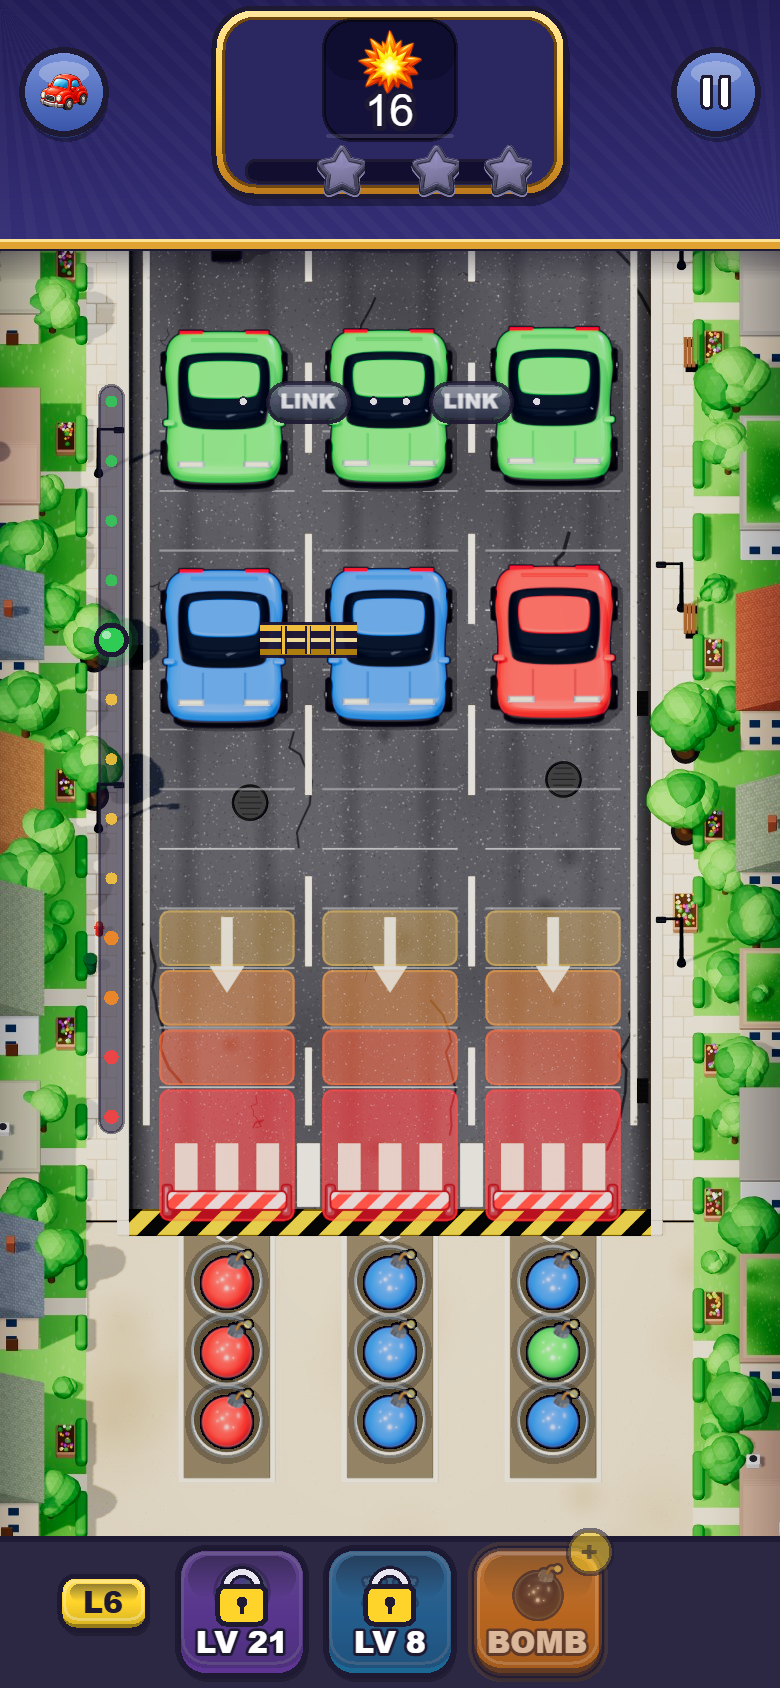
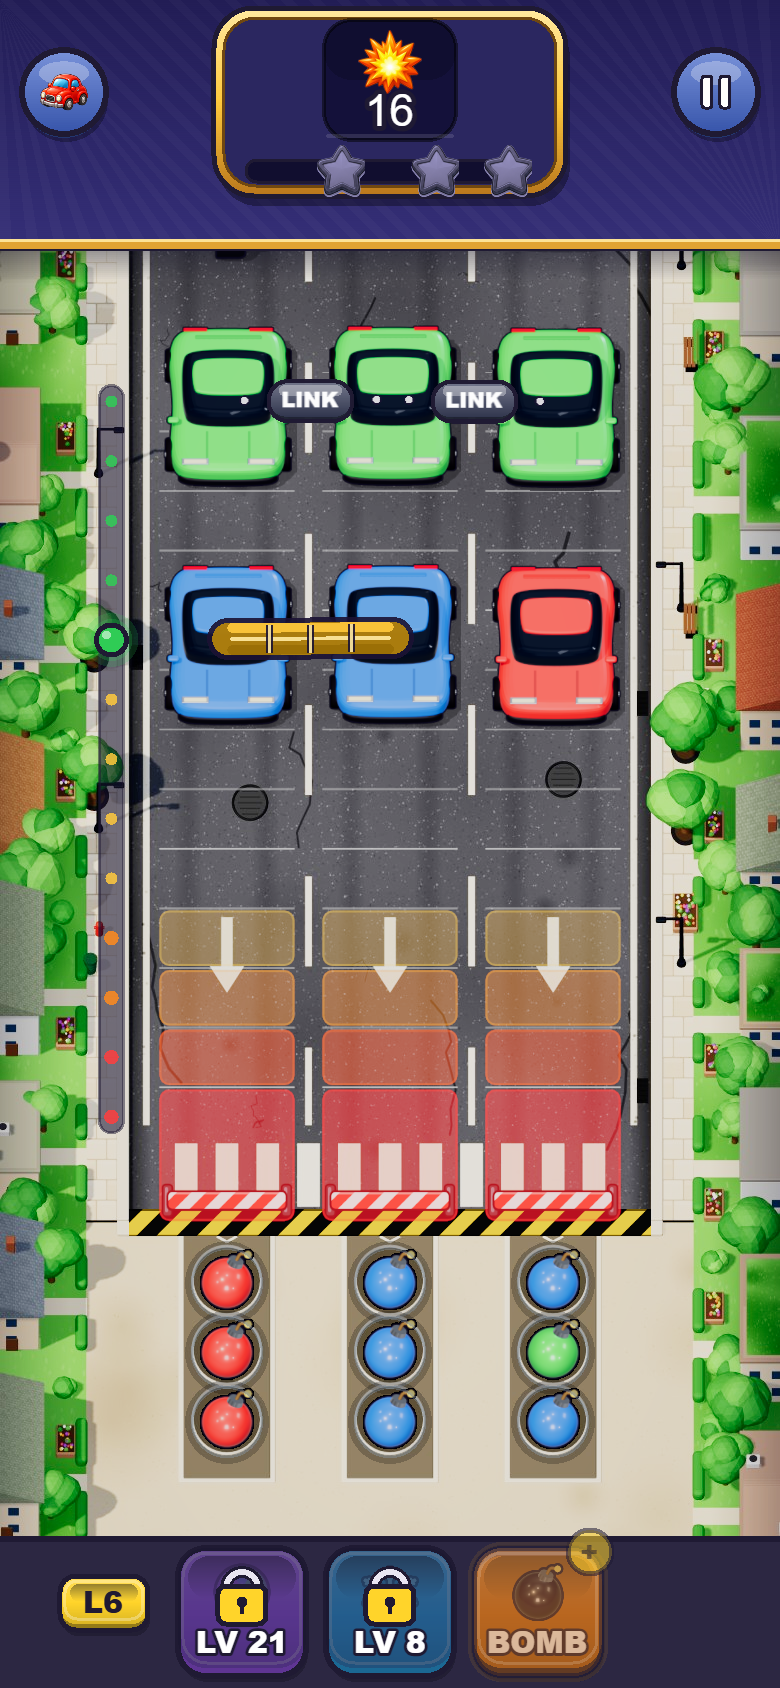
Bridge is one plank laid roof to roof, drawn from where the 3D cars are rendered each frame; the snap hinges each half on its own car

Changed region(s): [[0.1846, 0.1848, 0.8, 0.4313]]

diff --git a/src/renderer/BridgeLayer.js b/src/renderer/BridgeLayer.js
@@ -1,30 +1,30 @@
 // BridgeLayer — everything the player sees of BRIDGES (src/game/bridges.js), drawn on the Pixi
-// particle layer over the 3D road, repositioned every frame from the cars' positions:
-//   • LINK hint: a dotted white link with a small LINK pill between every pair that could be
-//     bridged right now (the board explaining itself; always on, not only the first times).
-//   • The bridge: a gold beam (two rails, rungs) between the two cars, softly pulsing.
+// particle layer over the 3D road and re-laid EVERY FRAME from where the cars are actually drawn
+// (`posOf(lane, car)` reads the 3D group's glide position; see GameRenderer3D.carScreenPos), so a
+// bridge is one plank lying across the two roofs that moves with them (owner, 2026-10-31: "a
+// single bridge that connects the two cars and moves with them").
+//   • LINK hint: a dotted link with a small LINK pill between every pair that could be bridged
+//     right now (the board explaining itself; always on, not only the first times).
+//   • The bridge: one gold plank from roof to roof with rungs, ink outline, soft pulse.
 //   • The drag: a rubber band from the held car to the finger; solid green on the partner.
-//   • Made: a ring of sparks at the middle of a new bridge.
-//   • Snap: the beam cracks and its halves fall away (a speeder moved on, a chameleon flipped).
-//   • Blast: a white flash along each bridge the hit ran through.
-// Car screen positions: lane x from PositionRegistry, y from the car's position (roadGeometry),
-// eased per car so the beam rides the 3D glide instead of jumping ahead of it.
+//   • Made: a ring of sparks at the middle of the new plank.
+//   • Snap: the plank cracks in the middle; each half stays on its own car and swings down off
+//     the roof, fading (a speeder moved on, a chameleon flipped, a car crashed).
+//   • Blast: a white flash along the plank the hit ran through.
 import { Container, Graphics } from 'pixi.js';
 import { getLaneScreenX } from './PositionRegistry.js';
 import { posToScreenY } from './roadGeometry.js';
 import { tag } from './PremiumUI.js';
 import { eligiblePairs } from '../game/bridges.js';
 
-const GOLD = 0xFFC93C, GOLD_DEEP = 0xB8860B, INK = 0x1B1333, WHITE = 0xFFFFFF, GREEN = 0x2FCC55;
-const BEAM_H = 14;
-const SNAP_T = 0.8;
-const INSET  = 0.2;   // the beam starts inside each car body (fraction of the lane gap), not at its centre
+const GOLD = 0xFFC93C, GOLD_DEEP = 0xB8860B, GOLD_LIGHT = 0xFFE9A0, INK = 0x1B1333, WHITE = 0xFFFFFF, GREEN = 0x2FCC55;
+const BEAM_H = 16;
+const SNAP_T = 0.55;
 const MADE_T = 0.45;
 const BLAST_T = 0.28;
-const GLIDE = 12;   // per-second easing toward the car's new row (Car3D glides over ~0.4 s)
 
 export class BridgeLayer {
-  constructor(layer) {
+  constructor(layer, { posOf = null } = {}) {
     this._root = new Container();
     layer.addChild(this._root);
     this._hints = new Graphics();
@@ -32,19 +32,18 @@ export class BridgeLayer {
     this._fx = new Graphics();
     this._band = new Graphics();
     this._root.addChild(this._hints, this._beams, this._fx, this._band);
-    this._pills = [];          // LINK pills in use this frame
-    this._pool = [];
-    this._yOf = new Map();     // car -> eased screen y
+    this._posOf = posOf;
+    this._pills = [];
+    this._last = new Map();    // car -> last known {x, y} (for a car that just left the board)
     this._drag = null;
-    this._snaps = [];          // { x1, y1, x2, y2, t }
+    this._snaps = [];          // { a: {lane, car}, b: {lane, car}, t }
     this._made = [];           // { x, y, t }
     this._blasts = [];         // { x1, y1, x2, y2, t }
     this._t = 0;
   }
 
   setVisible(v) { this._root.visible = v; }
-  reset() { this._yOf.clear(); this._drag = null; this._snaps.length = 0; this._made.length = 0; this._blasts.length = 0; }
-
+  reset() { this._last.clear(); this._drag = null; this._snaps.length = 0; this._made.length = 0; this._blasts.length = 0; }
   setDrag(info) { this._drag = info; }
 
   onMade(laneA, carA, laneB, carB) {
@@ -53,10 +52,7 @@ export class BridgeLayer {
   }
 
   onSnap(bridges) {
-    for (const br of bridges) {
-      const a = this._pos(br.a.lane, br.a.car), b = this._pos(br.b.lane, br.b.car);
-      this._snaps.push({ x1: a.x, y1: a.y, x2: b.x, y2: b.y, t: 0 });
-    }
+    for (const br of bridges) this._snaps.push({ a: br.a, b: br.b, t: 0 });
   }
 
   // The hit on the car at (laneIdx, srcPos) ran along the bridges to each of `hits`: flash the way.
@@ -68,13 +64,13 @@ export class BridgeLayer {
     }
   }
 
-  // Eased screen position of a car (lane x is exact; y glides toward the car's row).
-  _pos(lane, car, dt = 0) {
-    const target = posToScreenY(car.position);
-    let y = this._yOf.get(car);
-    if (y == null) y = target; else if (dt > 0) y += (target - y) * Math.min(1, dt * GLIDE); else y = target;
-    this._yOf.set(car, y);
-    return { x: getLaneScreenX(lane), y };
+  // Where the car is drawn now (3D glide included); falls back to its logical row, then to the
+  // last place it was seen (a car that just left the board, mid-snap).
+  _pos(lane, car) {
+    let p = this._posOf?.(lane, car) ?? null;
+    if (!p && car && Number.isFinite(car.position)) p = { x: getLaneScreenX(lane), y: posToScreenY(car.position) };
+    if (p) { this._last.set(car, p); return p; }
+    return this._last.get(car) ?? { x: getLaneScreenX(lane), y: posToScreenY(50) };
   }
 
   update(dt, gs) {
@@ -84,27 +80,19 @@ export class BridgeLayer {
     let pillsUsed = 0;
     if (!gs || !gs.bridgesEnabled || gs.isOver) { this._recyclePills(0); return; }
 
-    // Forget cars that left the board.
-    const live = new Set();
-    for (let l = 0; l < gs.activeLaneCount; l++) for (const c of gs.lanes[l].cars) live.add(c);
-    for (const c of this._yOf.keys()) if (!live.has(c)) this._yOf.delete(c);
-
-    // Bridges: gold beams.
-    const bridged = new Set();
+    // Bridges: one plank per bridge, roof to roof.
     for (const br of gs.bridges) {
-      const a = this._pos(br.a.lane, br.a.car, dt), b = this._pos(br.b.lane, br.b.car, dt);
-      bridged.add(br.a.car); bridged.add(br.b.car);
-      const ix = (b.x - a.x) * INSET;
-      this._beam(beams, a.x + ix, a.y, b.x - ix, b.y, 0.85 + 0.15 * Math.sin(this._t * 5));
+      const a = this._pos(br.a.lane, br.a.car), b = this._pos(br.b.lane, br.b.car);
+      drawBeam(beams, a.x, a.y, b.x, b.y, { alpha: 0.92 + 0.08 * Math.sin(this._t * 5), h: BEAM_H });
     }
 
     // Hints: dotted links with a LINK pill, for pairs not yet bridged (and not the pair in hand).
     const dragging = this._drag?.from?.car ?? null;
     for (const p of eligiblePairs(gs.lanes, gs.activeLaneCount)) {
-      if (gs.bridges.some(br => (br.a.car === p.a.car && br.b.car === p.b.car))) continue;
+      if (gs.bridges.some(br => br.a.car === p.a.car && br.b.car === p.b.car)) continue;
       if (dragging && (p.a.car === dragging || p.b.car === dragging)) continue;
-      const a = this._pos(p.a.lane, p.a.car, dt), b = this._pos(p.b.lane, p.b.car, dt);
-      this._dots(hints, a.x, a.y, b.x, b.y);
+      const a = this._pos(p.a.lane, p.a.car), b = this._pos(p.b.lane, p.b.car);
+      drawDots(hints, a.x, a.y, b.x, b.y, this._t);
       const pl = this._pill(pillsUsed++);
       pl.x = (a.x + b.x) / 2; pl.y = (a.y + b.y) / 2;
       pl.alpha = 0.75 + 0.25 * Math.sin(this._t * 4);
@@ -115,15 +103,15 @@ export class BridgeLayer {
     // Drag: the rubber band.
     if (this._drag) {
       const { from, to, pointer } = this._drag;
-      const a = this._pos(from.lane, from.car, dt);
-      const end = to ? this._pos(to.lane, to.car, dt) : pointer;
-      band.moveTo(a.x, a.y).lineTo(end.x, end.y).stroke({ color: INK, width: 8, alpha: 0.5 });
-      band.moveTo(a.x, a.y).lineTo(end.x, end.y).stroke({ color: to ? GREEN : WHITE, width: 4, alpha: to ? 1 : 0.8 });
-      band.circle(a.x, a.y, 14).stroke({ color: GOLD, width: 3 });
-      if (to) { band.circle(end.x, end.y, 16 + 2 * Math.sin(this._t * 10)).stroke({ color: GREEN, width: 4 }); }
+      const a = this._pos(from.lane, from.car);
+      const end = to ? this._pos(to.lane, to.car) : pointer;
+      band.moveTo(a.x, a.y).lineTo(end.x, end.y).stroke({ color: INK, width: 10, alpha: 0.5 });
+      band.moveTo(a.x, a.y).lineTo(end.x, end.y).stroke({ color: to ? GREEN : WHITE, width: 5, alpha: to ? 1 : 0.85 });
+      band.circle(a.x, a.y, 16).stroke({ color: GOLD, width: 3 });
+      if (to) band.circle(end.x, end.y, 18 + 2 * Math.sin(this._t * 10)).stroke({ color: GREEN, width: 4 });
     }
 
-    // Effects.
+    // Made: a ring of sparks.
     for (let i = this._made.length - 1; i >= 0; i--) {
       const m = this._made[i]; m.t += dt;
       const k = m.t / MADE_T;
@@ -134,25 +122,29 @@ export class BridgeLayer {
         fx.circle(m.x + Math.cos(ang) * (10 + 30 * k), m.y + Math.sin(ang) * (10 + 30 * k), 3 * (1 - k)).fill({ color: WHITE, alpha: 1 - k });
       }
     }
+    // Snap: the plank cracks; each half stays on its car and swings down off the roof.
     for (let i = this._snaps.length - 1; i >= 0; i--) {
       const s = this._snaps[i]; s.t += dt;
       const k = s.t / SNAP_T;
       if (k >= 1) { this._snaps.splice(i, 1); continue; }
-      const mx = (s.x1 + s.x2) / 2, my = (s.y1 + s.y2) / 2, drop = 70 * k * k, al = 1 - k * k;
-      this._beam(fx, s.x1, s.y1 + drop, mx - 6, my + drop + 8 * k, al, -0.25 * k);
-      this._beam(fx, mx + 6, my + drop + 8 * k, s.x2, s.y2 + drop, al, 0.25 * k);
-      fx.moveTo(mx - 4, my - 10).lineTo(mx + 3, my - 2).lineTo(mx - 3, my + 3).lineTo(mx + 4, my + 10).stroke({ color: WHITE, width: 2, alpha: al });
+      const a = this._pos(s.a.lane, s.a.car), b = this._pos(s.b.lane, s.b.car);
+      const mx = (a.x + b.x) / 2, my = (a.y + b.y) / 2;
+      const swing = 1.1 * k * k, al = 1 - k * k;
+      drawBeam(fx, a.x, a.y, mx, my, { alpha: al, h: BEAM_H, hinge: 'start', tilt: swing });
+      drawBeam(fx, b.x, b.y, mx, my, { alpha: al, h: BEAM_H, hinge: 'start', tilt: -swing });
+      if (k < 0.3) {
+        const c = 1 - k / 0.3;
+        fx.moveTo(mx - 5, my - 14).lineTo(mx + 4, my - 3).lineTo(mx - 4, my + 3).lineTo(mx + 5, my + 14).stroke({ color: WHITE, width: 3, alpha: c });
+      }
     }
+    // Blast: a flash along the plank.
     for (let i = this._blasts.length - 1; i >= 0; i--) {
       const b = this._blasts[i]; b.t += dt;
       const k = b.t / BLAST_T;
       if (k >= 1) { this._blasts.splice(i, 1); continue; }
-      fx.moveTo(b.x1, b.y1).lineTo(b.x2, b.y2).stroke({ color: WHITE, width: 10 * (1 - k), alpha: 0.9 * (1 - k) });
+      fx.moveTo(b.x1, b.y1).lineTo(b.x2, b.y2).stroke({ color: WHITE, width: 14 * (1 - k), alpha: 0.9 * (1 - k) });
     }
   }
-
-  _beam(g, x1, y1, x2, y2, alpha = 1, tilt = 0) { drawBeam(g, x1, y1, x2, y2, { alpha, tilt, h: BEAM_H }); }
-  _dots(g, x1, y1, x2, y2) { drawDots(g, x1, y1, x2, y2, this._t); }
 
   _pill(i) {
     let c = this._pills[i];
@@ -170,26 +162,34 @@ export class BridgeLayer {
   }
 }
 
-// ── Shared drawing (the DemoCard scenes draw the same bridge the board does) ──────────────
+// ── Shared drawing (the DemoCard scenes and the HowToPlay slide draw the same plank) ───────────
 
-/** A gold beam: ink shadow, two rails, three rungs. `tilt` (radians) for the falling halves. */
-export function drawBeam(g, x1, y1, x2, y2, { alpha = 1, tilt = 0, h: beamH = BEAM_H } = {}) {
+/**
+ * One gold plank from (x1,y1) to (x2,y2): ink outline, two rails, three rungs, rounded ends that
+ * sit on the roofs. `tilt` rotates it (radians) about its start when `hinge: 'start'`, else about
+ * its middle; `alpha` fades it.
+ */
+export function drawBeam(g, x1, y1, x2, y2, { alpha = 1, tilt = 0, h: beamH = BEAM_H, hinge = 'middle' } = {}) {
   const dx = x2 - x1, dy = y2 - y1, len = Math.hypot(dx, dy);
   if (len < 4) return;
-  const ux = dx / len, uy = dy / len;                 // along
-  const ca = Math.cos(tilt), sa = Math.sin(tilt);
-  const ax = ux * ca - uy * sa, ay = ux * sa + uy * ca;   // tilted along
-  const nx = -ay, ny = ax;                            // normal
+  const ang = Math.atan2(dy, dx) + tilt;
+  const ax = Math.cos(ang), ay = Math.sin(ang);          // along, after the tilt
+  const nx = -ay, ny = ax;                                // normal
+  // Where the plank starts after the tilt: hinged at its start, or rotated about its middle.
+  let sx = x1, sy = y1;
+  if (hinge !== 'start') { const mx = x1 + dx / 2, my = y1 + dy / 2; sx = mx - ax * len / 2; sy = my - ay * len / 2; }
   const h = beamH / 2;
-  const P = (t, n) => [x1 + ax * t + nx * n, y1 + ay * t + ny * n];
-  const rail = (n, col, w) => { const [sx, sy] = P(0, n), [ex, ey] = P(len, n); g.moveTo(sx, sy).lineTo(ex, ey).stroke({ color: col, width: w, alpha }); };
-  rail(0, INK, beamH + 4);
-  rail(-h + 1, GOLD, Math.max(2, beamH * 0.23)); rail(h - 1, GOLD_DEEP, Math.max(2, beamH * 0.23));
-  rail(0, 0xFFE9A0, Math.max(1, beamH * 0.12));
+  const P = (t, n) => [sx + ax * t + nx * n, sy + ay * t + ny * n];
+  const line = (t0, t1, n, col, w) => { const [a, b] = P(t0, n), [c, d] = P(t1, n); g.moveTo(a, b).lineTo(c, d).stroke({ color: col, width: w, alpha, cap: 'round' }); };
+  line(0, len, 0, INK, beamH + 5);                                   // outline
+  line(0, len, 0, GOLD_DEEP, beamH);                                 // body
+  line(2, len - 2, -h + 2.5, GOLD, Math.max(2.5, beamH * 0.3));      // top rail
+  line(2, len - 2, h - 2.5, 0x9A6E05, Math.max(2.5, beamH * 0.3));   // bottom rail (shade)
+  line(2, len - 2, 0, GOLD_LIGHT, Math.max(1.2, beamH * 0.12));      // highlight
   for (let i = 1; i <= 3; i++) {
     const t = (len * i) / 4;
-    const [sx, sy] = P(t, -h), [ex, ey] = P(t, h);
-    g.moveTo(sx, sy).lineTo(ex, ey).stroke({ color: INK, width: 3, alpha }).moveTo(sx, sy).lineTo(ex, ey).stroke({ color: GOLD, width: 1.5, alpha });
+    const [a, b] = P(t, -h + 1), [c, d] = P(t, h - 1);
+    g.moveTo(a, b).lineTo(c, d).stroke({ color: INK, width: 3.5, alpha }).moveTo(a, b).lineTo(c, d).stroke({ color: GOLD_LIGHT, width: 1.5, alpha });
   }
 }
 
@@ -207,5 +207,4 @@ export function drawDots(g, x1, y1, x2, y2, time = 0) {
       g.circle(x1 + dx * e, y1 + dy * e, 1.8).fill({ color: WHITE, alpha: 0.75 });
     }
   }
-
 }

diff --git a/src/renderer3d/Car3D.js b/src/renderer3d/Car3D.js
@@ -13,7 +13,7 @@
 
 import * as THREE from 'three';
 import { CELL, posToZ, laneToX } from './Scene3D.js';
-import { ROAD_Z_FAR, POS_NEAR_Z, screenYToZ } from './projection.js';
+import { ROAD_Z_FAR, POS_NEAR_Z, screenYToZ, worldXToScreenX, zToScreenY } from './projection.js';
 import { carEntryStartZ, carEntryProgress } from './carEntry.js';
 import { CAR_SPRITE_GEOMETRY } from './carSpriteGeometry.js';
 import { BOSS_SPRITE_GEOMETRY } from './bossSpriteGeometry.js';
@@ -570,6 +570,15 @@ export class Car3D {
     this._dying.length = 0;
     for (const s of this._shards ?? []) { this._scene.remove(s.mesh); s.mesh.geometry.dispose(); s.mesh.material.dispose(); }
     if (this._shards) this._shards.length = 0;
+  }
+
+  // Where this car is DRAWN right now, in Pixi stage px (the group glides between rows, so an
+  // overlay that reads this rides the car exactly; BridgeLayer). null when the car has no mesh yet.
+  screenPosOf(car) {
+    const entry = this._live.get(car);
+    if (!entry?.group) return null;
+    const g = entry.group;
+    return { x: worldXToScreenX(g.position.x), y: zToScreenY(g.position.z) };
   }
 
   // DEV proof helper: current {x,y} mesh scale of the front car in a lane (or null).

diff --git a/src/renderer/GameApp.js b/src/renderer/GameApp.js
@@ -677,7 +677,9 @@ async function main() {
   // ProgressManager.introducedCarTypes). The old flow re-showed cards mid-level
   // whenever a refill spawned a type (localStorage key + no backfill).
   let carTypeIntroCard    = null;  // active intro card (only one at a time)
-  const bridgeLayer       = new BridgeLayer(layers.get('particleLayer'));   // LINK hints, beams, snaps over the road (bridges.js)
+  // LINK hints, planks, snaps over the road (bridges.js); planks are laid from where the 3D cars
+  // are DRAWN each frame, so they ride the glide.
+  const bridgeLayer       = new BridgeLayer(layers.get('particleLayer'), { posOf: (_lane, car) => gameRenderer3D.carScreenPos(car) });
   let _onBridgeMade       = null;  // the guided first bridge (L6) waits on this
   let carTypeIntroTimer   = null;  // setTimeout handle for level-start intro delay
   let levelStartCardsTimer = null; // level-start tour / tip cards, shown after the splash

diff --git a/src/renderer3d/GameRenderer3D.js b/src/renderer3d/GameRenderer3D.js
@@ -341,6 +341,9 @@ export class GameRenderer3D {
   /** DEV proof helper: front car's current {x,y} mesh scale in a lane. */
   peekCarScale(laneIdx) { return this._cars?.peekFrontScale(laneIdx) ?? null; }
 
+  /** Stage px where a car is drawn right now (its glide included), or null (BridgeLayer). */
+  carScreenPos(car) { return this._cars?.screenPosOf(car) ?? null; }
+
   /** 3B: highlight the grabbed column's bomb (-1 = none). */
   setSelectedBomb(colIdx) { this._shooters?.setSelectedColumn(colIdx); }
 
